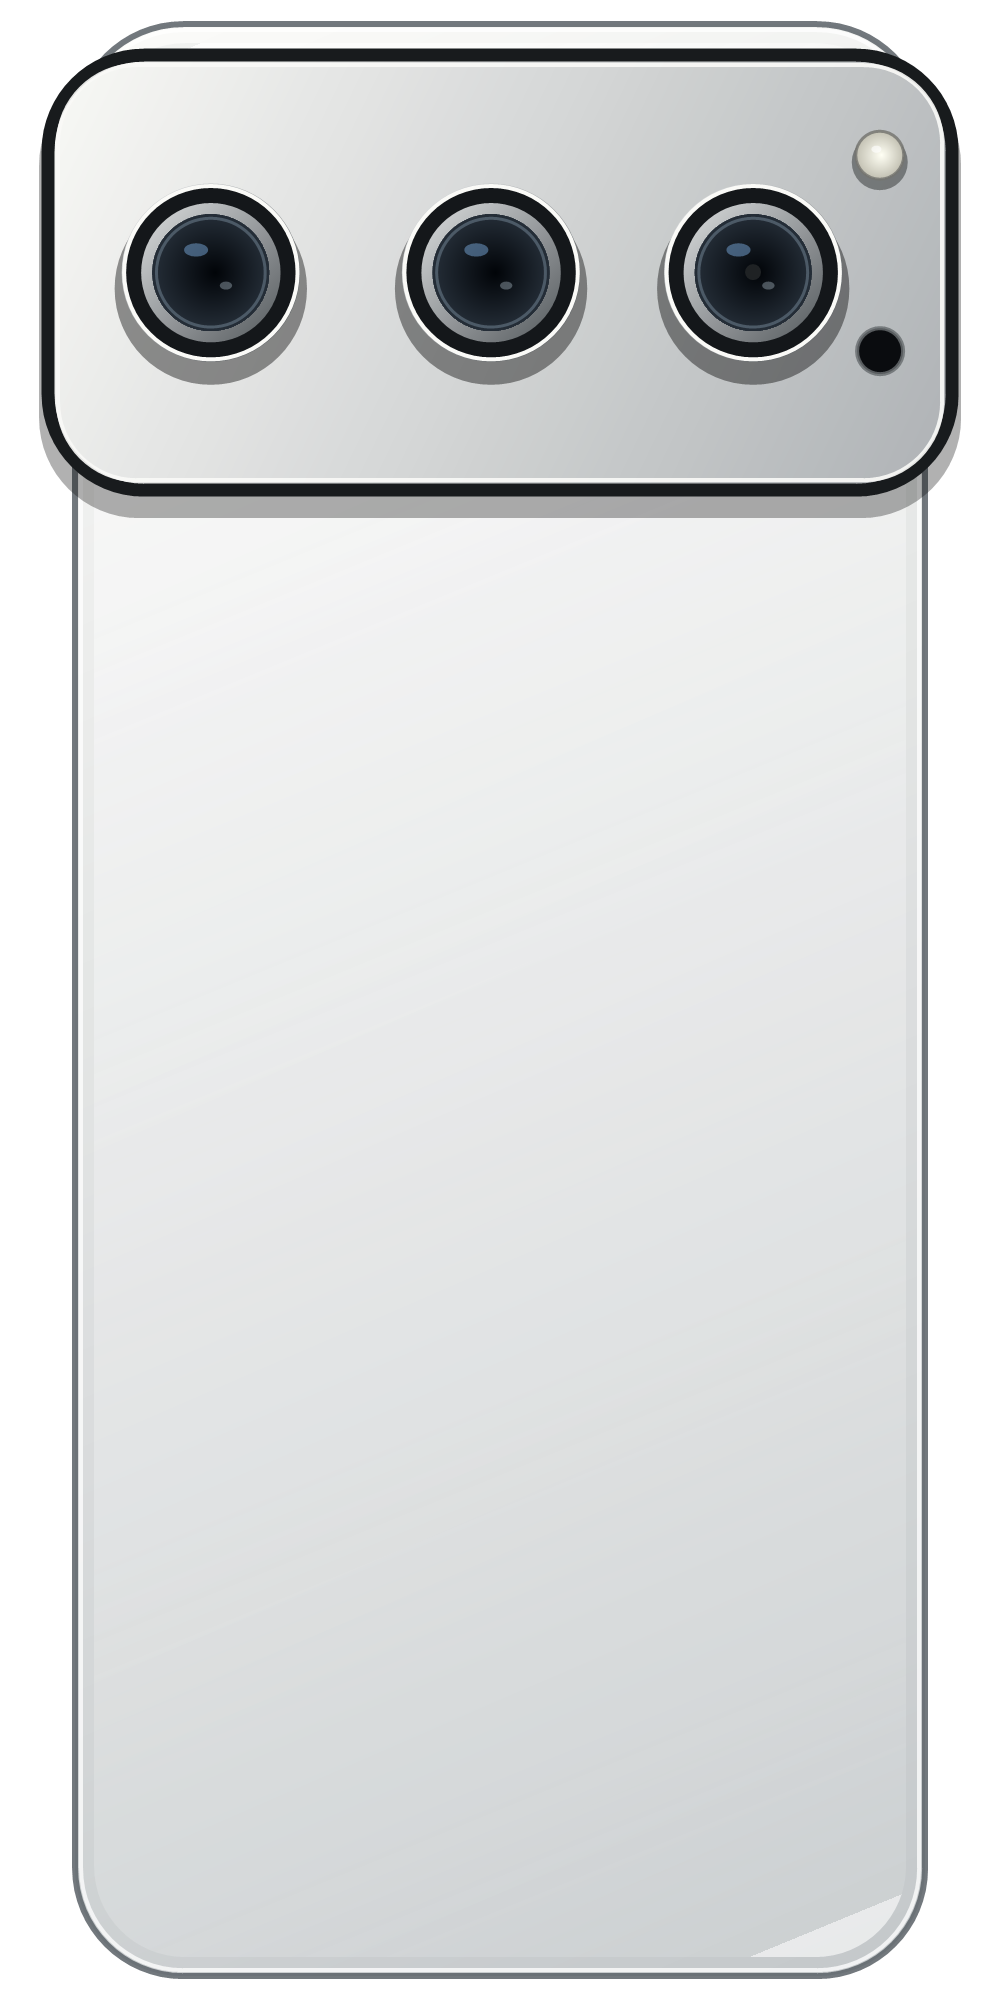
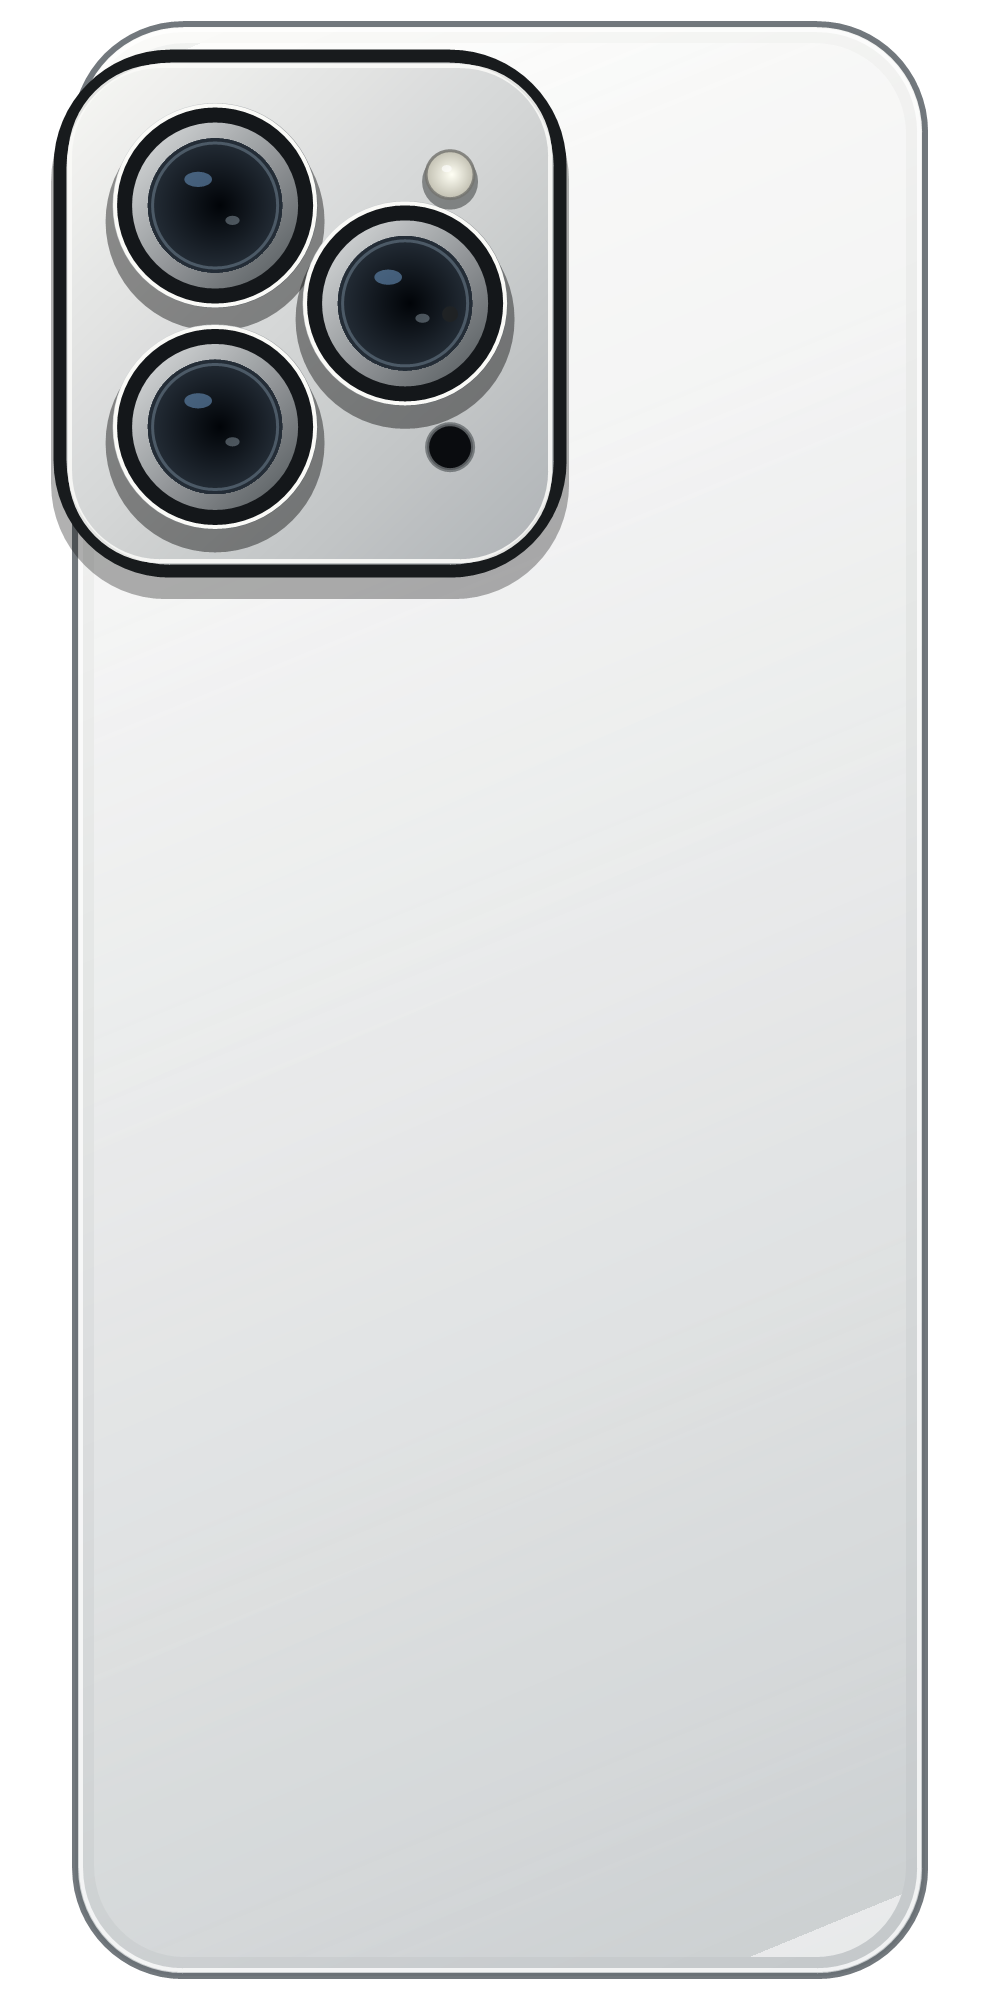
Match Pro mockups to reference camera language

Changed region(s): [[0.031, 0.0, 0.961, 0.31]]

diff --git a/lib/mockups.ts b/lib/mockups.ts
@@ -8,8 +8,8 @@ const config=(slug:string,model:string,width:number,height:number,camera:Rect,ca
 
 export const modelConfigs:Record<string,ModelConfig>={
  'iphone-17':config('iphone-17','iPhone 17',2.81,5.89,{x:62,y:58,width:492,height:505},'triple-square',112),
- 'iphone-17-pro':config('iphone-17-pro','iPhone 17 Pro',2.84,5.91,{x:48,y:55,width:904,height:435},'triple-wide',108),
- 'iphone-17-pro-max':config('iphone-17-pro-max','iPhone 17 Pro Max',3.02,6.31,{x:46,y:52,width:908,height:438},'triple-wide',105),
+ 'iphone-17-pro':config('iphone-17-pro','iPhone 17 Pro',2.84,5.91,{x:60,y:56,width:500,height:515},'triple-square',108),
+ 'iphone-17-pro-max':config('iphone-17-pro-max','iPhone 17 Pro Max',3.02,6.31,{x:57,y:53,width:508,height:522},'triple-square',105),
  'iphone-16':config('iphone-16','iPhone 16',2.78,5.81,{x:70,y:62,width:270,height:505},'dual-vertical',114),
  'iphone-16-pro':config('iphone-16-pro','iPhone 16 Pro',2.81,5.89,{x:60,y:56,width:500,height:515},'triple-square',109),
  'iphone-16-pro-max':config('iphone-16-pro-max','iPhone 16 Pro Max',3.06,6.42,{x:57,y:53,width:508,height:522},'triple-square',104),

diff --git a/tests/customizer.test.ts b/tests/customizer.test.ts
@@ -32,8 +32,10 @@ test('phone models use their matching 2.5D camera geometry',()=>{
  assert.equal(modelConfig('iphone-17').cameraLayout,'triple-square');
  assert.deepEqual(modelConfig('iphone-17').camera,{x:62,y:58,width:492,height:505});
  assert.equal(modelConfig('iphone-16-pro-max').cameraLayout,'triple-square');
- assert.equal(modelConfig('iphone-17-pro').cameraLayout,'triple-wide');
- assert.ok(modelConfig('iphone-17-pro-max').camera.width>850);
+ assert.equal(modelConfig('iphone-17-pro').cameraLayout,'triple-square');
+ assert.equal(modelConfig('iphone-17-pro-max').cameraLayout,'triple-square');
+ assert.deepEqual(modelConfig('iphone-17-pro').camera,{x:60,y:56,width:500,height:515});
+ assert.deepEqual(modelConfig('iphone-17-pro-max').camera,{x:57,y:53,width:508,height:522});
 });
 test('every supported phone owns a complete layered mockup bundle',()=>{
  const files=['base.png','case-overlay.png','print-mask.png','camera-mask.png','highlight-overlay.png','shadow-overlay.png','config.json'];
